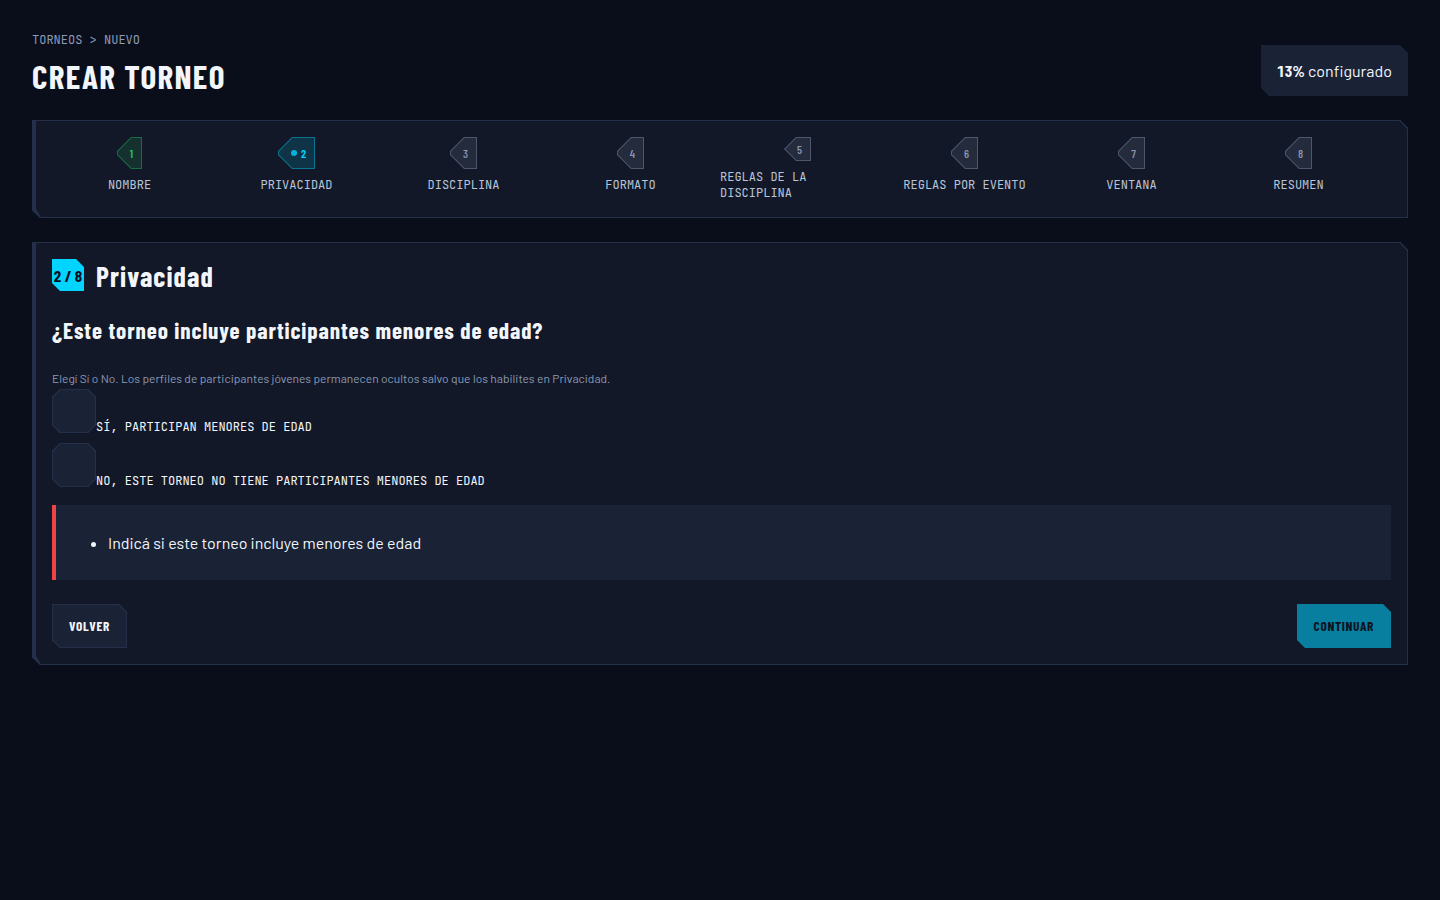
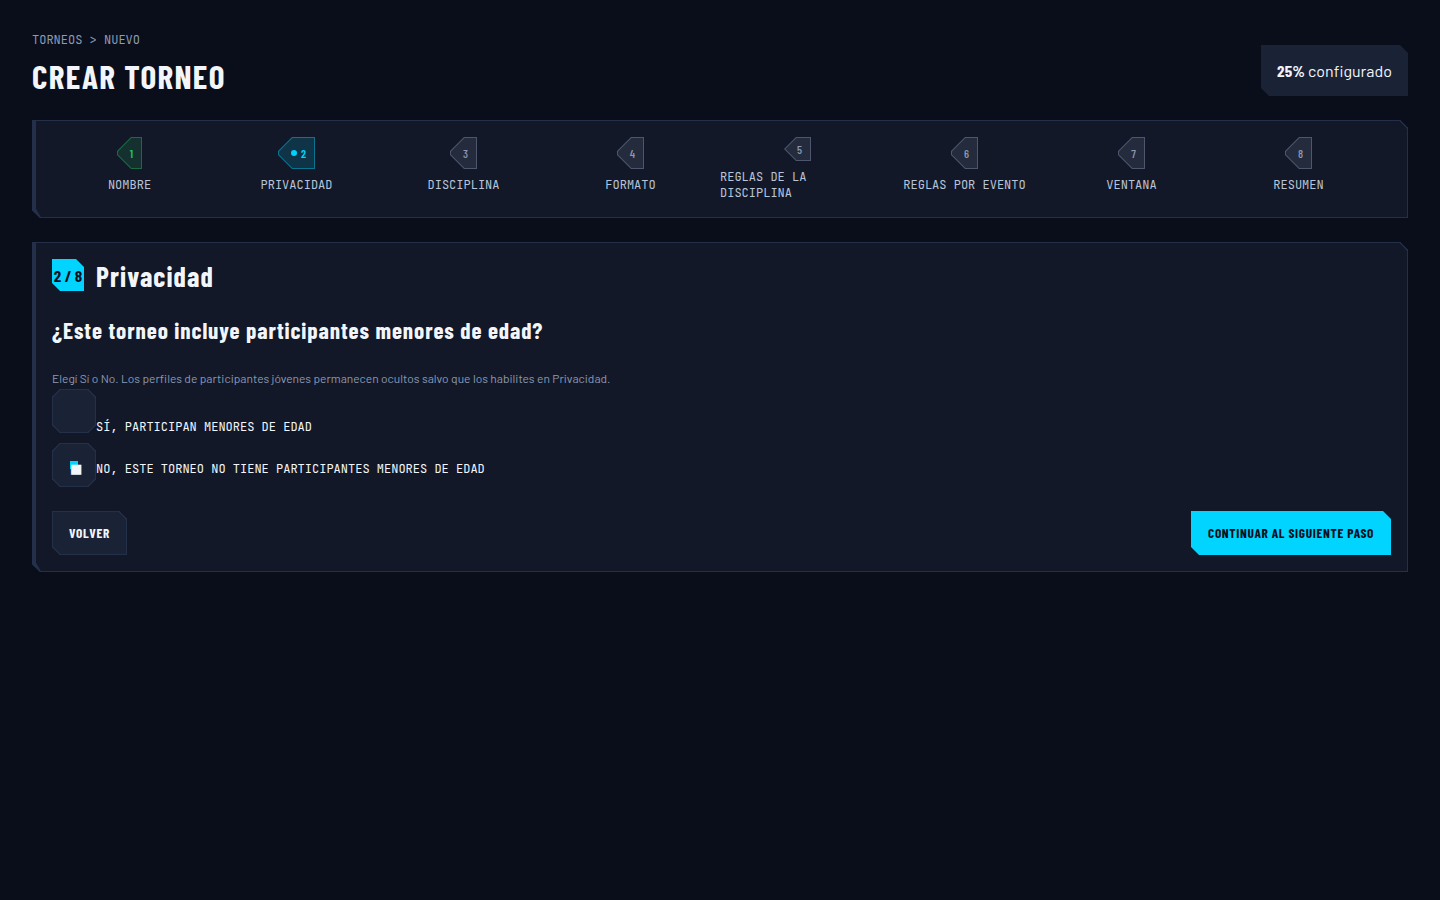
fix(web): clarify wizard continuation action

Changed region(s): [[0.0312, 0.56, 0.9688, 0.7467], [0.0312, 0.4978, 0.3438, 0.56]]

diff --git a/apps/web/src/control/authoring-ui.test.tsx b/apps/web/src/control/authoring-ui.test.tsx
@@ -55,7 +55,7 @@ function continueWizardWithAdultParticipants(): void {
     name: 'No, this tournament has no minor participants',
   });
   if (!noMinors && screen.queryByLabelText('Name')) {
-    fireEvent.click(screen.getByRole('button', { name: 'Continue' }));
+    fireEvent.click(screen.getByRole('button', { name: 'Continue to the next step' }));
     noMinors = screen.queryByRole('radio', {
       name: 'No, this tournament has no minor participants',
     });
@@ -63,7 +63,7 @@ function continueWizardWithAdultParticipants(): void {
   if (noMinors && !screen.queryByRole('radio', { checked: true })) {
     fireEvent.click(noMinors);
   }
-  fireEvent.click(screen.getByRole('button', { name: 'Continue' }));
+  fireEvent.click(screen.getByRole('button', { name: 'Continue to the next step' }));
 }
 
 describe('the tournament setup wizard screen', () => {
@@ -77,13 +77,13 @@ describe('the tournament setup wizard screen', () => {
     expect(
       screen.queryByRole('radio', { name: 'No, this tournament has no minor participants' }),
     ).toBeNull();
-    fireEvent.click(screen.getByRole('button', { name: 'Continue' }));
+    fireEvent.click(screen.getByRole('button', { name: 'Continue to the next step' }));
 
     const noMinors = screen.getByRole('radio', {
       name: 'No, this tournament has no minor participants',
     });
     const continueButton = screen.getByRole('button', {
-      name: 'Continue',
+      name: 'Continue to the next step',
     }) as HTMLButtonElement;
     expect(noMinors.getAttribute('aria-checked')).toBe('false');
     expect(continueButton.disabled).toBe(true);
@@ -399,7 +399,7 @@ describe('the tournament setup wizard screen', () => {
     expect(aliasInput.id).toBe('wizard-alias');
 
     const continueBtn = screen.getByRole('button', {
-      name: 'Continue',
+      name: 'Continue to the next step',
     }) as HTMLButtonElement;
     expect(continueBtn.disabled).toBe(true);
     expect(continueBtn.getAttribute('aria-describedby')).toBe('wizard-problems');

diff --git a/apps/web/src/control/authoring-routes.test.tsx b/apps/web/src/control/authoring-routes.test.tsx
@@ -74,7 +74,7 @@ function continueWizardWithAdultParticipants(): void {
     name: 'No, this tournament has no minor participants',
   });
   if (!noMinors && screen.queryByLabelText('Name')) {
-    fireEvent.click(screen.getByRole('button', { name: 'Continue' }));
+    fireEvent.click(screen.getByRole('button', { name: 'Continue to the next step' }));
     noMinors = screen.queryByRole('radio', {
       name: 'No, this tournament has no minor participants',
     });
@@ -82,7 +82,7 @@ function continueWizardWithAdultParticipants(): void {
   if (noMinors && !screen.queryByRole('radio', { checked: true })) {
     fireEvent.click(noMinors);
   }
-  fireEvent.click(screen.getByRole('button', { name: 'Continue' }));
+  fireEvent.click(screen.getByRole('button', { name: 'Continue to the next step' }));
 }
 
 describe('the tournament authoring route container', () => {

diff --git a/apps/web/src/control/i18n/messages.en.ts b/apps/web/src/control/i18n/messages.en.ts
@@ -1966,7 +1966,7 @@ export const messages = defineMessages({
   },
   wizardBack: { id: 'control.wizard.back', defaultMessage: 'Back' },
   wizardCreate: { id: 'control.wizard.create', defaultMessage: 'Create tournament' },
-  wizardContinue: { id: 'control.wizard.continue', defaultMessage: 'Continue' },
+  wizardContinue: { id: 'control.wizard.continue', defaultMessage: 'Continue to the next step' },
   wizardReturnToSummary: {
     id: 'control.wizard.returnToSummary',
     defaultMessage: 'Return to summary',

diff --git a/apps/web/src/control/i18n/messages.ru.ts b/apps/web/src/control/i18n/messages.ru.ts
@@ -661,7 +661,7 @@ export const messages: Record<string, string> = {
   'control.wizard.requiresCheckIn': 'Требуется регистрация на месте',
   'control.wizard.back': 'Назад',
   'control.wizard.create': 'Создать турнир',
-  'control.wizard.continue': 'Продолжить',
+  'control.wizard.continue': 'Перейти к следующему шагу',
   'control.wizard.returnToSummary': 'Вернуться к сводке',
 
   'control.wizard.decision.discipline':

diff --git a/apps/web/src/control/i18n/messages.zh.ts b/apps/web/src/control/i18n/messages.zh.ts
@@ -636,7 +636,7 @@ export const messages: Record<string, string> = {
   'control.wizard.requiresCheckIn': '需要签到',
   'control.wizard.back': '返回',
   'control.wizard.create': '创建赛事',
-  'control.wizard.continue': '继续',
+  'control.wizard.continue': '前往下一步',
   'control.wizard.returnToSummary': '返回摘要',
 
   'control.wizard.decision.discipline': '决定本次比赛可用的规则、统计数据和事件。',

diff --git a/apps/web/src/control/i18n/messages.de.ts b/apps/web/src/control/i18n/messages.de.ts
@@ -664,7 +664,7 @@ export const messages: Record<string, string> = {
   'control.wizard.requiresCheckIn': 'Erfordert Check-in',
   'control.wizard.back': 'Zurück',
   'control.wizard.create': 'Turnier erstellen',
-  'control.wizard.continue': 'Weiter',
+  'control.wizard.continue': 'Weiter zum nächsten Schritt',
   'control.wizard.returnToSummary': 'Zur Zusammenfassung zurückkehren',
 
   'control.wizard.decision.discipline':

diff --git a/apps/web/src/control/i18n/messages.fr.ts b/apps/web/src/control/i18n/messages.fr.ts
@@ -666,7 +666,7 @@ export const messages: Record<string, string> = {
   'control.wizard.requiresCheckIn': 'Nécessite un enregistrement',
   'control.wizard.back': 'Retour',
   'control.wizard.create': 'Créer le tournoi',
-  'control.wizard.continue': 'Continuer',
+  'control.wizard.continue': 'Passer à l’étape suivante',
   'control.wizard.returnToSummary': 'Revenir au résumé',
 
   'control.wizard.decision.discipline':

diff --git a/apps/web/src/control/i18n/messages.it.ts b/apps/web/src/control/i18n/messages.it.ts
@@ -661,7 +661,7 @@ export const messages: Record<string, string> = {
   'control.wizard.requiresCheckIn': 'Richiede check-in',
   'control.wizard.back': 'Indietro',
   'control.wizard.create': 'Crea torneo',
-  'control.wizard.continue': 'Continua',
+  'control.wizard.continue': 'Vai al passaggio successivo',
   'control.wizard.returnToSummary': 'Torna al riepilogo',
 
   'control.wizard.decision.discipline':

diff --git a/apps/web/src/control/i18n/messages.pt.ts b/apps/web/src/control/i18n/messages.pt.ts
@@ -655,7 +655,7 @@ export const messages: Record<string, string> = {
   'control.wizard.requiresCheckIn': 'Requer check-in',
   'control.wizard.back': 'Voltar',
   'control.wizard.create': 'Criar torneio',
-  'control.wizard.continue': 'Continuar',
+  'control.wizard.continue': 'Avançar para o próximo passo',
   'control.wizard.returnToSummary': 'Voltar ao resumo',
 
   'control.wizard.decision.discipline':

diff --git a/apps/web/src/control/i18n/messages.es.ts b/apps/web/src/control/i18n/messages.es.ts
@@ -660,7 +660,7 @@ export const messages: Record<string, string> = {
   'control.wizard.requiresCheckIn': 'Requiere check-in',
   'control.wizard.back': 'Volver',
   'control.wizard.create': 'Crear torneo',
-  'control.wizard.continue': 'Continuar',
+  'control.wizard.continue': 'Continuar al siguiente paso',
   'control.wizard.returnToSummary': 'Volver al resumen',
 
   'control.wizard.decision.discipline':
